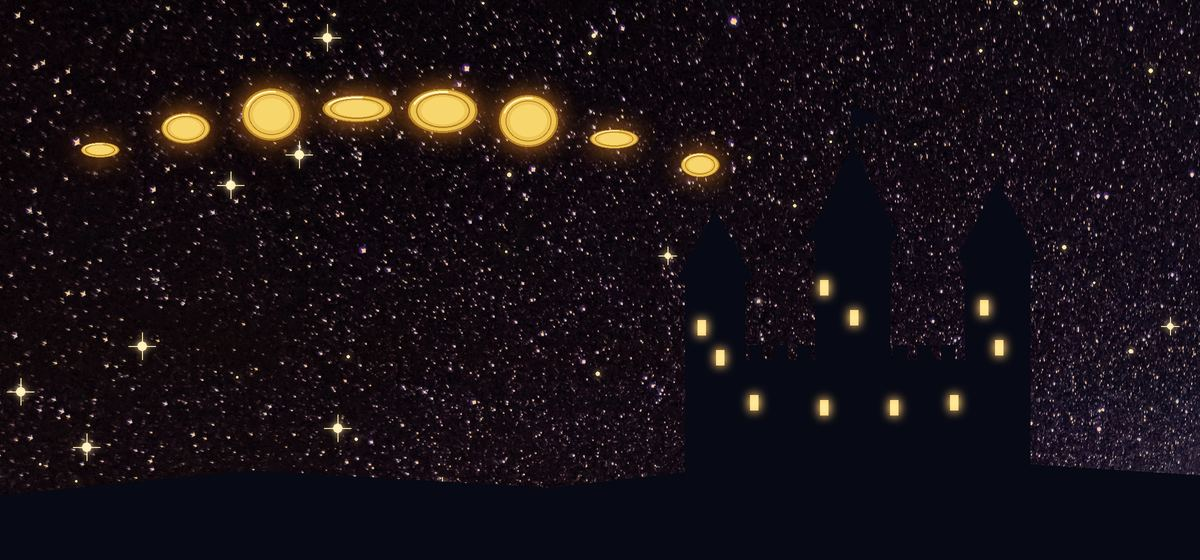
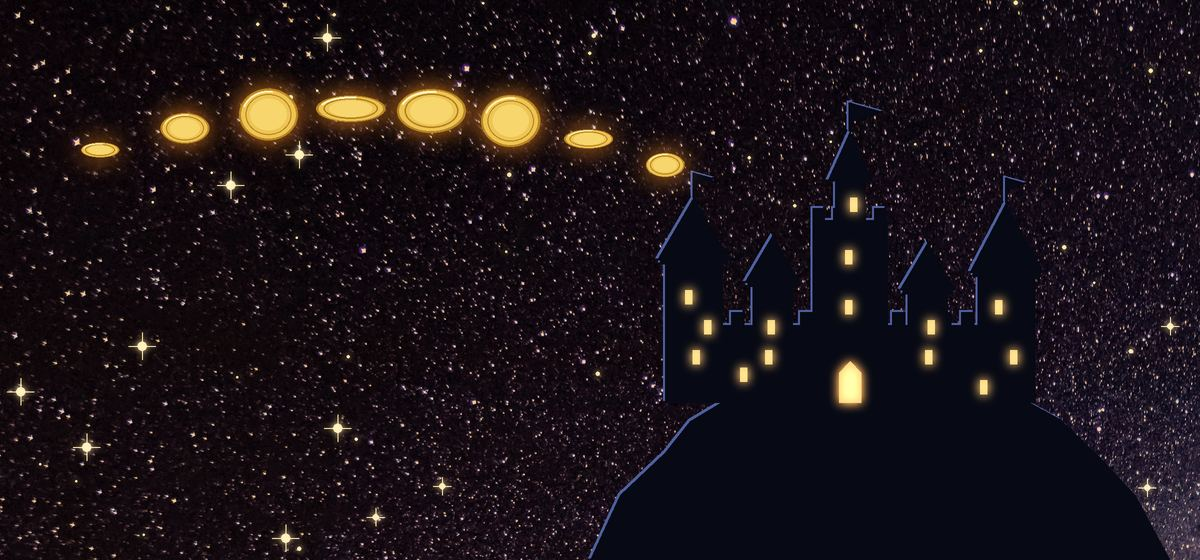
Crisp vivid garden background, shorter hero with soft fade, italic welcome, redrawn head and castle covers

diff --git a/quartz/styles/custom.scss b/quartz/styles/custom.scss
@@ -56,11 +56,27 @@ article blockquote {
 body {
   background-color: var(--light);
   background-image:
-    linear-gradient(rgba(12, 16, 34, 0.42), rgba(12, 16, 34, 0.7)),
+    linear-gradient(rgba(6, 9, 24, 0.05), rgba(6, 9, 24, 0.2)),
     url("/static/img/garden-night.jpg");
   background-size: cover;
   background-position: center bottom;
   background-attachment: fixed;
+}
+
+// Home page welcome line: soft italic, floating on the garden
+body[data-slug="index"] .markdown-preview-view > p {
+  font-style: italic;
+  font-family: var(--headerFont);
+  font-size: 1.6rem;
+  line-height: 1.6;
+  text-align: center;
+  color: #f3ead2;
+  background: rgba(8, 12, 30, 0.55);
+  backdrop-filter: blur(6px);
+  border-radius: 18px;
+  padding: 1.4rem 1.8rem;
+  margin-top: 1.6rem;
+  text-shadow: 0 2px 14px rgba(0, 0, 0, 0.7);
 }
 
 // Text pages: the reading area floats on a soft night-glass panel
@@ -184,27 +200,25 @@ body[data-slug="index"] {
   position: relative;
   width: 100%;
   margin: 0;
-  min-height: 92vh;
+  min-height: 80vh;
   display: flex;
   align-items: center;
   justify-content: center;
   text-align: center;
   overflow: hidden;
-  background:
-    radial-gradient(ellipse at 50% 125%, rgba(227, 185, 92, 0.3), transparent 55%),
-    linear-gradient(180deg, rgba(8, 10, 28, 0.12), rgba(12, 16, 34, 0.5)),
-    url("/static/img/hero-sky.jpg");
-  background-size: cover;
-  background-position: center 38%;
 
-  &::after {
+  // The sky fades out into the garden that lives behind the page
+  &::before {
     content: "";
     position: absolute;
-    left: 0;
-    right: 0;
-    bottom: 0;
-    height: 34%;
-    background: linear-gradient(to bottom, transparent, rgba(12, 16, 34, 0.96));
+    inset: 0;
+    background:
+      linear-gradient(180deg, rgba(8, 10, 28, 0.1), rgba(12, 16, 34, 0.35)),
+      url("/static/img/hero-sky.jpg");
+    background-size: cover;
+    background-position: center 38%;
+    -webkit-mask-image: linear-gradient(to bottom, #000 0%, #000 52%, rgba(0, 0, 0, 0.55) 78%, transparent 100%);
+    mask-image: linear-gradient(to bottom, #000 0%, #000 52%, rgba(0, 0, 0, 0.55) 78%, transparent 100%);
     pointer-events: none;
   }
 }
@@ -454,7 +468,7 @@ body[data-slug="index"] {
 
 @media (max-width: 800px) {
   .hero {
-    min-height: 82vh;
+    min-height: 74vh;
   }
 
   .hero-constellation {
